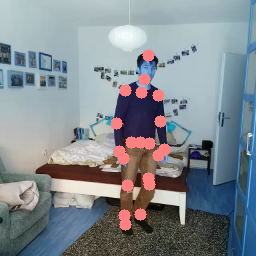
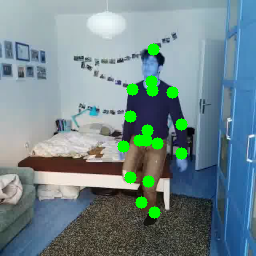
weights

diff --git a/exp/ntu/train_pose_baseline.py b/exp/ntu/train_pose_baseline.py
@@ -1,20 +1,20 @@
 import os
 import sys
 
-if os.path.realpath(os.getcwd()) != os.path.dirname(os.path.realpath(__file__)):
-    sys.path.append(os.getcwd())
+#if os.path.realpath(os.getcwd()) != os.path.dirname(os.path.realpath(__file__)):
+#    sys.path.append(os.getcwd())
 
 import deephar
 
 from deephar.config import mpii_dataconf
-from deephar.config import human36m_dataconf
+#from deephar.config import human36m_dataconf
 from deephar.config import pennaction_dataconf
 from deephar.config import ntu_pe_dataconf
 
 from deephar.config import ModelConfig
 
 from deephar.data import MpiiSinglePerson
-from deephar.data import Human36M
+#from deephar.data import Human36M
 from deephar.data import PennAction
 from deephar.data import Ntu
 from deephar.data import BatchLoader
@@ -30,9 +30,9 @@ from deephar.trainer import TrainerOnGenerator
 from deephar.utils import *
 
 sys.path.append(os.path.join(os.getcwd(), 'exp/common'))
-from datasetpath import datasetpath
+#from datasetpath import datasetpath
 from mpii_tools import MpiiEvalCallback
-from h36m_tools import H36MEvalCallback
+#from h36m_tools import H36MEvalCallback
 
 
 logdir = './'
@@ -47,27 +47,29 @@ cfg = ModelConfig(mpii_dataconf.input_shape, pa17j3d, num_pyramids=8,
 num_predictions = spnet.get_num_predictions(cfg.num_pyramids, cfg.num_levels)
 
 start_lr = 0.001
+logdir = "C:\\networks\\deephar\\logs"
 weights_path = os.path.join(logdir, 'weights_posebaseline_{epoch:03d}.hdf5')
 
 batch_size_mpii = 14
 batch_size_ar = 2
 
 """Load datasets"""
-mpii = MpiiSinglePerson(datasetpath('MPII'), dataconf=mpii_dataconf,
+mpii = MpiiSinglePerson("E:\\Bachelorarbeit-SS20\\datasets\\MPII", dataconf=mpii_dataconf,
         poselayout=pa17j3d)
 
-h36m = Human36M(datasetpath('Human3.6M'), dataconf=human36m_dataconf,
-        poselayout=pa17j3d, topology='frames')
 
-penn_sf = PennAction(datasetpath('Penn_Action'), pennaction_dataconf,
+#h36m = Human36M(datasetpath('Human3.6M'), dataconf=human36m_dataconf,
+#        poselayout=pa17j3d, topology='frames')
+
+penn_sf = PennAction("E:\\Bachelorarbeit-SS20\\datasets\\PennAction", pennaction_dataconf,
         poselayout=pa17j3d, topology='frames', use_gt_bbox=True)
 
-ntu_sf = Ntu(datasetpath('NTU'), ntu_pe_dataconf, poselayout=pa17j3d,
+ntu_sf = Ntu("E:\\Bachelorarbeit-SS20\\datasets\\NTU", ntu_pe_dataconf, poselayout=pa17j3d,
         topology='frames', use_gt_bbox=True)
 
 """Create an object to load data from all datasets."""
-data_tr = BatchLoader([mpii, h36m, penn_sf, ntu_sf], ['frame'], ['pose'],
-        TRAIN_MODE, batch_size=[batch_size_mpii, batch_size_mpii, batch_size_ar,
+data_tr = BatchLoader([mpii, penn_sf, ntu_sf], ['frame'], ['pose'],
+        TRAIN_MODE, batch_size=[batch_size_mpii, batch_size_ar,
             batch_size_ar], num_predictions=num_predictions, shuffle=True)
 
 """MPII validation samples."""
@@ -79,14 +81,14 @@ mpii_callback = MpiiEvalCallback(x_val, p_val, afmat_val, head_val,
         map_to_pa16j=pa17j3d.map_to_pa16j, logdir=logdir)
 
 """Human3.6H validation samples."""
-h36m_val = BatchLoader(h36m, ['frame'],
-        ['pose_w', 'pose_uvd', 'afmat', 'camera', 'action'], VALID_MODE,
-        batch_size=h36m.get_length(VALID_MODE), shuffle=True)
-printcn(OKBLUE, 'Preloading Human3.6M validation samples...')
-[x_val], [pw_val, puvd_val, afmat_val, scam_val, action] = h36m_val[0]
+#h36m_val = BatchLoader(h36m, ['frame'],
+#        ['pose_w', 'pose_uvd', 'afmat', 'camera', 'action'], VALID_MODE,
+#        batch_size=h36m.get_length(VALID_MODE), shuffle=True)
+#printcn(OKBLUE, 'Preloading Human3.6M validation samples...')
+#[x_val], [pw_val, puvd_val, afmat_val, scam_val, action] = h36m_val[0]
 
-h36m_callback = H36MEvalCallback(x_val, pw_val, afmat_val,
-        puvd_val[:,0,2], scam_val, action, logdir=logdir)
+#h36m_callback = H36MEvalCallback(x_val, pw_val, afmat_val,
+#        puvd_val[:,0,2], scam_val, action, logdir=logdir)
 
 
 model = spnet.build(cfg)
@@ -98,7 +100,7 @@ model.summary()
 callbacks = []
 callbacks.append(SaveModel(weights_path))
 callbacks.append(mpii_callback)
-callbacks.append(h36m_callback)
+#callbacks.append(h36m_callback)
 
 steps_per_epoch = mpii.get_length(TRAIN_MODE) // batch_size_mpii
 

diff --git a/exp/ntu/train_ntu_spnet.py b/exp/ntu/train_ntu_spnet.py
@@ -1,8 +1,8 @@
 import os
 import sys
 
-if os.path.realpath(os.getcwd()) != os.path.dirname(os.path.realpath(__file__)):
-    sys.path.append(os.getcwd())
+#if os.path.realpath(os.getcwd()) != os.path.dirname(os.path.realpath(__file__)):
+#    sys.path.append(os.getcwd())
 
 import deephar
 
@@ -32,7 +32,7 @@ from deephar.models import spnet
 from deephar.utils import *
 
 sys.path.append(os.path.join(os.getcwd(), 'exp/common'))
-from datasetpath import datasetpath
+#from datasetpath import datasetpath
 
 from mpii_tools import MpiiEvalCallback
 from h36m_tools import H36MEvalCallback
@@ -44,7 +44,7 @@ if len(sys.argv) > 1:
     mkdir(logdir)
     sys.stdout = open(str(logdir) + '/log.txt', 'w')
 
-num_frames = 8
+num_frames = 6
 cfg = ModelConfig((num_frames,) + ntu_dataconf.input_shape, pa17j3d,
         # num_actions=[60], num_pyramids=8, action_pyramids=[5, 6, 7, 8],
         num_actions=[60], num_pyramids=2, action_pyramids=[1, 2],
@@ -58,24 +58,24 @@ num_action_predictions = \
 start_lr = 0.01
 action_weight = 0.1
 batch_size_mpii = 3
-batch_size_h36m = 4
-batch_size_ntu = 8 #1
-batch_clips = 4 # 8/4
+#batch_size_h36m = 4
+batch_size_ntu = 6 #1
+batch_clips = 3 # 8/4
 
 """Load datasets"""
-mpii = MpiiSinglePerson(datasetpath('MPII'), dataconf=mpii_dataconf,
+mpii = MpiiSinglePerson("E:\\Bachelorarbeit-SS20\\datasets\\MPII", dataconf=mpii_dataconf,
         poselayout=pa17j3d)
 
 # h36m = Human36M(datasetpath('Human3.6M'), dataconf=human36m_dataconf,
         # poselayout=pa17j3d, topology='frames')
 
-ntu_sf = Ntu(datasetpath('NTU'), ntu_pe_dataconf, poselayout=pa17j3d,
+ntu_sf = Ntu("E:\\Bachelorarbeit-SS20\\datasets\\NTU", ntu_pe_dataconf, poselayout=pa17j3d,
         topology='frames', use_gt_bbox=True)
 
-ntu = Ntu(datasetpath('NTU'), ntu_dataconf, poselayout=pa17j3d,
+ntu = Ntu("E:\\Bachelorarbeit-SS20\\datasets\\NTU", ntu_dataconf, poselayout=pa17j3d,
         topology='sequences', use_gt_bbox=True, clip_size=num_frames)
 
-ntu_s1 = Ntu(datasetpath('NTU'), ntu_dataconf, poselayout=pa17j3d,
+ntu_s1 = Ntu("E:\\Bachelorarbeit-SS20\\datasets\\NTU", ntu_dataconf, poselayout=pa17j3d,
         topology='sequences', use_gt_bbox=True, clip_size=num_frames)
         # topology='sequences', use_gt_bbox=True, clip_size=num_frames, num_S=1)
 
@@ -93,9 +93,9 @@ ar_data_tr = BatchLoader(ntu, ['frame'], ['ntuaction'], TRAIN_MODE,
 full_model = spnet.build(cfg)
 
 """Load pre-trained weights from pose estimation and copy replica layers."""
-# full_model.load_weights(
-        # 'output/pose_baseline_3dp_02_94226e0/weights_posebaseline_060.hdf5',
-        # by_name=True)
+full_model.load_weights(
+         "C:\\networks\\deephar\\output\\ntu_baseline\\0429\\base_ntu_model_weights.hdf5",
+         by_name=True)
 # full_model.load_weights(
         # 'output/ntu_spnet_trial-03_fa9d2e2/weights_3dp+ntu_ar_050.hdf5',
         # by_name=True)
@@ -123,7 +123,7 @@ ntu_te = BatchLoader(ntu_s1, ['frame'], ['ntuaction'], TEST_MODE,
         batch_size=1, shuffle=False)
 
 """Save model callback."""
-save_model = SaveModel(os.path.join(logdir,
+save_model = SaveModel(os.path.join("C:\\networks\\deephar\\output\\spnet\\0429\\",
     'weights_3dp+ntu_ar_{epoch:03d}.hdf5'), model_to_save=full_model)
 
 

diff --git a/kinectv2/multitask_kinect_v2_live_pose_estimation_ntu.py b/kinectv2/multitask_kinect_v2_live_pose_estimation_ntu.py
@@ -17,6 +17,7 @@ from pykinect2 import PyKinectRuntime
 
 import deephar
 
+from deephar.config import mpii_dataconf
 from deephar.config import human36m_dataconf
 from deephar.config import ntu_dataconf
 from deephar.config import ModelConfig
@@ -43,28 +44,19 @@ if len(sys.argv) > 1:
     mkdir(logdir)
     sys.stdout = open(str(logdir) + '/log.txt', 'w')
 
-num_frames = 1
-cfg = ModelConfig((num_frames,) + ntu_dataconf.input_shape, pa17j3d,
-        num_actions=[60], num_pyramids=2, action_pyramids=[1, 2],
-        num_levels=4, pose_replica=False,
-        num_pose_features=192, num_visual_features=192)
-
-num_predictions = spnet.get_num_predictions(cfg.num_pyramids, cfg.num_levels)
-num_action_predictions = spnet.get_num_predictions(len(cfg.action_pyramids), cfg.num_levels)
-
+cfg = ModelConfig(mpii_dataconf.input_shape, pa17j3d, num_pyramids=8,
+        action_pyramids=[], num_levels=4)
 
 """Build the full model"""
-full_model = spnet.build(cfg)
+model = spnet.build(cfg)
 
 """Load pre-trained weights from pose estimation and copy replica layers."""
-full_model.load_weights(
+model.load_weights(
         # 'output/ntu_spnet_trial-03-ft_replica_0ae2bf7/weights_3dp+ntu_ar_062.hdf5',
-        'output/weights_AR_merge_NTU_v2.h5',
+        "C:\\networks\\deephar\\output\\ntu_baseline\\0429\\base_ntu_model_weights.hdf5",
         by_name=True)
 
-"""Split model to simplify evaluation."""
-models = split_model(full_model, cfg, interlaced=False,
-        model_names=['3DPose', '3DAction'])
+
 
 """Load kinect"""
 
@@ -111,9 +103,9 @@ while True:
         #normalize
         img_256_norm = cv2.normalize(img_256, None, -1, 1, cv2.NORM_MINMAX, cv2.CV_64F)
         
-        prediction = models[0].predict(np.expand_dims(np.expand_dims(img_256_norm, 0),0))
+        prediction = model.predict(np.expand_dims(img_256_norm, 0))
         
-        pred_x_y_z_1 = prediction[5][0][0]
+        pred_x_y_z_1 = prediction[5][0]
 
         pred_x_y_1 = pred_x_y_z_1[:,0:2]
         pred_x_y_1080 = np.interp(pred_x_y_1, (0, 1), (0, 1080))
@@ -127,10 +119,6 @@ while True:
         frame = None
         
         
-    
-    
-    
-    
     key = cv2.waitKey(1)
     if key == 27: 
         kinect.close()

diff --git a/deephar/data/loader.py b/deephar/data/loader.py
@@ -7,7 +7,7 @@ from multiprocessing import Queue
 import queue
 import threading
 
-from tensorflow.python.keras.utils import Sequence
+from keras.utils import Sequence
 
 from deephar.utils import *
 
@@ -55,7 +55,7 @@ class BatchLoader(Sequence):
         self.x_dictkeys = x_dictkeys
         self.y_dictkeys = y_dictkeys
         self.allkeys = x_dictkeys + y_dictkeys
-
+        self.batch_index = 0
         """Include custom dictkeys into the output list."""
         self.custom_dummy_dictkey = custom_dummy_dictkey
         self.custom_dictkeys = []
@@ -196,6 +196,18 @@ class BatchLoader(Sequence):
             key = self.qkey[dataset_idx].get()
 
         return key
+
+    def __next__(self):
+        
+        if self.batch_index <= self.__len__():
+            batch = self.__getitem__(self.batch_index)
+        else:
+            batch = None
+            
+        self.batch_index = self.batch_index + 1
+         
+        return batch
+        
 
     @property
     def num_datasets(self):

diff --git a/exp/ntu/eval_ntu_ar_pe_merge.py b/exp/ntu/eval_ntu_ar_pe_merge.py
@@ -72,4 +72,3 @@ ntu_te = BatchLoader(ntu, ['frame'], ['ntuaction'], TEST_MODE,
 printcn(OKGREEN, 'Evaluation on NTU single-clip using GT bboxes')
 
 eval_singleclip_generator(model, ntu_te)
-
